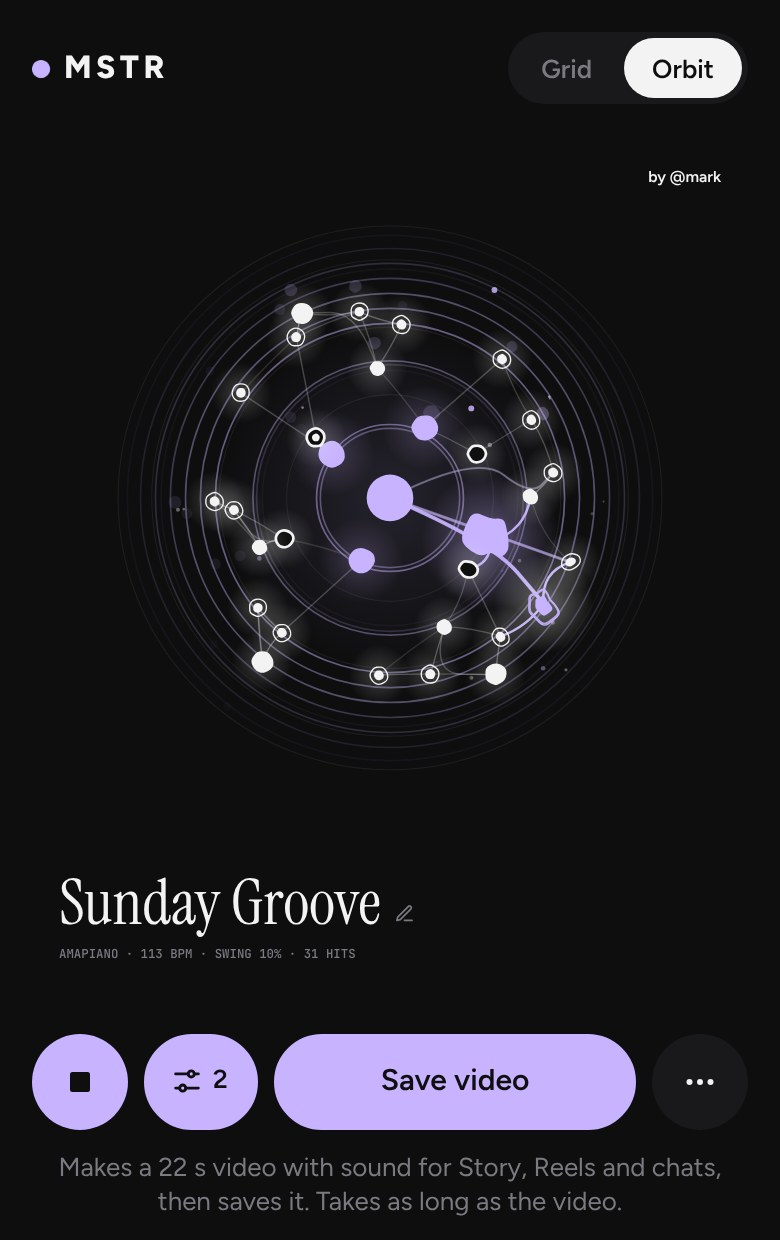
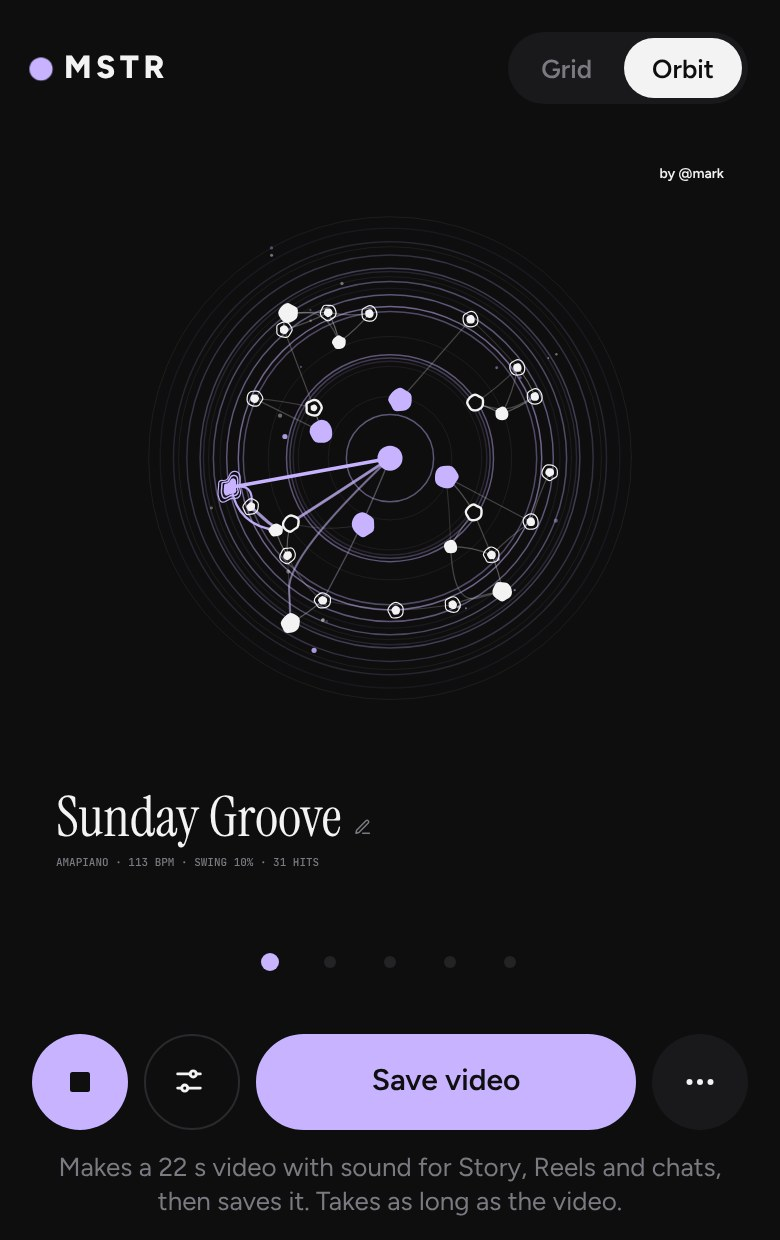
MSTR: sync app with Orbit colours and dark default
App copy from mstr main (five Orbit colours, dark default), new Orbit
preview with the colour dots, step text mentions the colours.

Claude-Session: https://claude.ai/code/session_01WCtGHVGad15G69qQznzFsj

diff --git a/mstr/app/index.html b/mstr/app/index.html
@@ -7,8 +7,6 @@
 <meta name="apple-mobile-web-app-capable" content="yes">
 <meta name="apple-mobile-web-app-title" content="MSTR">
 <title>MSTR</title>
-<link rel="icon" type="image/png" href="/mstr/favicon.png">
-<link rel="apple-touch-icon" href="/mstr/apple-touch-icon.png">
 <link rel="preconnect" href="https://fonts.googleapis.com">
 <link rel="preconnect" href="https://fonts.gstatic.com" crossorigin>
 <link rel="stylesheet" href="https://fonts.googleapis.com/css2?family=Figtree:wght@400;500;600;700;800&family=Instrument+Serif&family=JetBrains+Mono:wght@400;500&display=swap">
@@ -271,6 +269,14 @@ input[type=range]::-moz-range-thumb{width:20px;height:20px;border-radius:50%;bac
 .seg button{height:30px;padding:0 14px;border-radius:999px;border:0;background:none;color:var(--mute);font:600 13px var(--f-ui);cursor:pointer}
 .seg button[aria-pressed="true"]{background:var(--ink);color:var(--bg)}
 .cardfoot{display:flex;gap:8px;align-items:center}
+/* Farbwahl im Orbit: fünf Punkte, der gewählte trägt einen Ring; die Orbit-Farbe färbt dort auch den Video-Knopf */
+/* Zurückhaltend wie die App: kleine graue Punkte, nur der gewählte trägt seine Farbe; die Tipp-Fläche bleibt groß */
+.hue{display:flex;justify-content:center;gap:2px;padding:0 0 6px}
+.hue button{width:28px;height:24px;border:0;padding:0;background:none;cursor:pointer;display:grid;place-items:center}
+.hue button::after{content:"";width:6px;height:6px;border-radius:50%;background:var(--off);transition:transform .15s,background .15s}
+.hue button[aria-checked="true"]::after{background:var(--c);transform:scale(1.5)}
+.hue button:active::after{transform:scale(.8)}
+.app.molecule{--accent:var(--orbit,#C7B3FF)}
 .cardfoot .pill{flex:1;width:auto}
 .cardfoot .ib{width:48px;height:48px}
 .app.molecule .head{display:none}
@@ -305,6 +311,7 @@ input[type=range]::-moz-range-thumb{width:20px;height:20px;border-radius:50%;bac
   </div>
   <main class="tracks" id="tracks" aria-label="Tracks"></main>
   <canvas class="mol" id="mol" hidden aria-label="Your beat as an orbit. Tap the ring to play or stop, tap the title to name it" role="button" tabindex="0"></canvas>
+  <div class="hue" id="hue" hidden role="radiogroup" aria-label="Orbit colour"></div>
   <div class="cardfoot" id="cardfoot" hidden><button type="button" class="pill wide go" id="shCardBtn">Share video</button><button type="button" class="ib" id="more" aria-haspopup="dialog" aria-label="Link and WAV loop" title="Link and WAV loop"><svg viewBox="0 0 24 24" aria-hidden="true"><circle cx="5" cy="12" r="2" fill="currentColor"/><circle cx="12" cy="12" r="2" fill="currentColor"/><circle cx="19" cy="12" r="2" fill="currentColor"/></svg></button></div>
   <p class="shnote" id="shCardT" hidden></p>
   <div class="trk beatrow" aria-hidden="true"><div class="tl"></div><div class="steps"><div class="grp"><span>1</span><span></span><span></span><span></span></div><div class="grp"><span>2</span><span></span><span></span><span></span></div><div class="grp"><span>3</span><span></span><span></span><span></span></div><div class="grp"><span>4</span><span></span><span></span><span></span></div></div></div>
@@ -327,10 +334,10 @@ function save(){try{localStorage.setItem(KEY,JSON.stringify(S));}catch(e){}}
 function lsGet(k){try{return localStorage.getItem(k);}catch(e){return null;}}
 function lsSet(k,v){try{if(v==null)localStorage.removeItem(k);else localStorage.setItem(k,v);}catch(e){}}
 
-/* Farbschema: System, hell oder dunkel */
+/* Farbschema: System, hell oder dunkel. Wer noch nichts gewählt hat, startet dunkel (auch im Grid) */
 var THEMES=['system','light','dark'];
 function applyTheme(){
-  var t=THEMES.indexOf(S.theme)>=0?S.theme:'system',de=document.documentElement;
+  var t=THEMES.indexOf(S.theme)>=0?S.theme:'dark',de=document.documentElement;
   if(t==='system')de.removeAttribute('data-theme');else de.setAttribute('data-theme',t);
   var dark=t==='dark'||(t==='system'&&window.matchMedia&&matchMedia('(prefers-color-scheme: dark)').matches);
   var m=document.querySelector('meta[name="theme-color"]');if(m)m.setAttribute('content',dark?'#0E0E0F':'#FFFFFF');
@@ -646,6 +653,10 @@ function dropRec(id){delete REC[id];lsSet('mstr-rec-'+id,null);}
    Staub: bei manchen Schlägen bleiben kleine Körner zurück, die langsam nach außen und oben in die Atmosphäre gleiten */
 var CARD=(function(){
   var LIL='#C7B3FF',INK='#0F0F10',WHT='#F3F3F4',GRY='#7A7A81',ORDER=[1,2,0,4,5,3,6],NBAR=9,TAIL=2.4;
+  /* Akzentfarbe je Beat (m.col, Hex): fünf Töne auf Schwarz, Flieder ist der Standard. Das Molekül behält seine Form, nur die Farbe wechselt */
+  var HUES={f:'#C7B3FF',m:'#9FE8C8',k:'#FF9A8B',b:'#F5C56B',e:'#9FD3FF'},LILA='rgba(199,179,255,A)',RGB='199,179,255';
+  function accent(c){c=HUES[c]||(/^#[0-9a-f]{6}$/i.test(c||'')?c:HUES.f);if(c===LIL)return;LIL=c;
+    RGB=parseInt(c.slice(1,3),16)+','+parseInt(c.slice(3,5),16)+','+parseInt(c.slice(5,7),16);LILA='rgba('+RGB+',A)';}
   function hash(s){var h=2166136261,i;for(i=0;i<s.length;i++){h^=s.charCodeAt(i);h=Math.imul(h,16777619);}return h>>>0;}
   function rng(a){return function(){a|=0;a=a+0x6D2B79F5|0;var t=Math.imul(a^a>>>15,1|a);t=t+Math.imul(t^t>>>7,61|t)^t;return((t^t>>>14)>>>0)/4294967296;};}
   /* feste Zufallsabweichung je Atom (bricht jede Drehsymmetrie) */
@@ -657,11 +668,11 @@ var CARD=(function(){
   /* Effekte normiert: je id {a: Stärke 0–1, o: Auswahl}; Zahl = nur Stärke */
   function fxNorm(f){var o={},k,D={echo:3,sweep:2,pump:4,stut:2};if(!f)return o;
     for(k in f){var v=f[k];if(!v)continue;var a=typeof v==='number'?v:(v.a==null?.5:v.a);o[k]={a:Math.max(0,Math.min(1,a)),o:(v&&v.o)||D[k]||0};}return o;}
-  function model(rows,bpm,sw,fx){
+  function model(rows,bpm,sw,fx,col){
     var R=rows.slice(0,7).map(function(r){return (r||'').padEnd(16,'0').slice(0,16);}),cnt=[],tot=0,dom=0,i;
     R.forEach(function(r){var n=0;for(i=0;i<16;i++)if(r.charAt(i)!=='0')n++;cnt.push(n);tot+=n;});
     var TYP=[8,4,3,1,6,2,1];for(i=1;i<7;i++)if(cnt[i]/TYP[i]>cnt[dom]/TYP[dom])dom=i;
-    return {R:R,cnt:cnt,tot:tot,bpm:bpm,sw:sw,dom:dom,fx:fxNorm(fx),seed:hash(R.join('')+bpm)};
+    return {R:R,cnt:cnt,tot:tot,bpm:bpm,sw:sw,dom:dom,fx:fxNorm(fx),col:col||'f',seed:hash(R.join('')+bpm)};
   }
   /* Arrangement: welche Spur in welchem Takt klingt (Takt 0 = erster). Takt 8 ist der Schlussschlag */
   function active(tr,bar){if(bar===0)return tr===1||tr===0;if(bar===1)return tr!==3&&tr!==5&&tr!==6;if(bar===6)return tr!==1;if(bar===8)return false;return true;}
@@ -768,7 +779,7 @@ var CARD=(function(){
     x.moveTo((P[N-1][0]+P[0][0])/2,(P[N-1][1]+P[0][1])/2);
     for(k=0;k<N;k++){var q=P[(k+1)%N];x.quadraticCurveTo(P[k][0],P[k][1],(P[k][0]+q[0])/2,(P[k][1]+q[1])/2);}x.closePath();}
   function halo(x,px,py,R,col,al){var g=x.createRadialGradient(px,py,0,px,py,R);g.addColorStop(0,col.replace('A',al.toFixed(3)));g.addColorStop(1,col.replace('A','0'));x.fillStyle=g;x.beginPath();x.arc(px,py,R,0,7);x.fill();}
-  var LILA='rgba(199,179,255,A)',WHTA='rgba(243,243,244,A)';
+  var WHTA='rgba(243,243,244,A)';
   function atom(x,p,sc,fg,bg,kickStroke,glass,room){var tr=p.tr,v=p.v,px=p.x,py=p.y,va=(.3+.7*p.vis)*(1-.5*glass),k=(1+p.hp*.7)*(.35+.65*p.vis)*p.pk;
     /* Glas: nach jeder Füllung ein feiner Rand in derselben Farbe */
     var F=function(){x.fill();if(glass>.6){var a0=x.globalAlpha,s0=x.strokeStyle,w0=x.lineWidth;x.globalAlpha=.9*p.vis;x.strokeStyle=x.fillStyle;x.lineWidth=1.1*sc;x.stroke();x.globalAlpha=a0;x.strokeStyle=s0;x.lineWidth=w0;}};
@@ -794,7 +805,7 @@ var CARD=(function(){
     if(fx.sweep&&live){x.globalAlpha=1;halo(x,cx,cy,(60+S.open*180)*sc,LILA,.04+.07*fx.sweep.a*S.open);}
     x.strokeStyle=fg;x.globalAlpha=.07+(fx.sweep?.08*fx.sweep.a*S.open:0);x.lineWidth=1*sc;for(i=0;i<7;i++){x.beginPath();x.arc(cx,cy,(62+i*30)*sc,0,7);x.stroke();}x.globalAlpha=1;
     bonds(x,S,G,fg,sc,live);chains(x,S,G,fg,sc,live);
-    if(live)S.waves.forEach(function(w){var age=(performance.now()-w.t)/900;if(age>1||age<0)return;x.strokeStyle='rgba(199,179,255,'+(0.5*(1-age))+')';x.lineWidth=1.5*sc;x.beginPath();x.arc(cx,cy,(w.r+age*90)*sc,0,7);x.stroke();});
+    if(live)S.waves.forEach(function(w){var age=(performance.now()-w.t)/900;if(age>1||age<0)return;x.strokeStyle='rgba('+RGB+','+(0.5*(1-age))+')';x.lineWidth=1.5*sc;x.beginPath();x.arc(cx,cy,(w.r+age*90)*sc,0,7);x.stroke();});
     var ne=Math.min(7,2+m.cnt[3]+m.cnt[6]);for(i=0;i<ne;i++){var orb=(70+g()*190)*sc,sp=(0.3+g()*0.6)*(m.bpm/110)*(g()>.5?1:-1),ph=g()*7,ea=ph+(live||!reduce()?T*sp:0);
       x.fillStyle=LIL;x.globalAlpha=.85;x.beginPath();x.arc(cx+Math.cos(ea)*orb,cy+Math.sin(ea)*orb,2.6*sc,0,7);x.fill();x.globalAlpha=1;}
     if(live&&fx.echo)S.ghosts.forEach(function(gh){var age=(now-gh.t)/gh.dt;if(age<0||age>=1)return;var p=G.byId[gh.id];if(!p)return;
@@ -824,7 +835,7 @@ var CARD=(function(){
      alles Wichtige liegt zwischen y = 150 und y = 800 (Instagram: Kopfzeile bis etwa 12 %, Antwortfeld ab etwa 84 %) */
   /* Tiefe: leises Licht um die Mitte und wenige feine Sterne (fest je Beat, keine Bewegung), o.space:false lässt es weg */
   function space(x,W,H,S,cx,cy,sc){
-    var g=x.createRadialGradient(cx,cy,0,cx,cy,W*.95);g.addColorStop(0,'rgba(199,179,255,.09)');g.addColorStop(.45,'rgba(199,179,255,.025)');g.addColorStop(1,'rgba(0,0,0,0)');
+    var g=x.createRadialGradient(cx,cy,0,cx,cy,W*.95);g.addColorStop(0,'rgba('+RGB+',.09)');g.addColorStop(.45,'rgba('+RGB+',.025)');g.addColorStop(1,'rgba(0,0,0,0)');
     x.fillStyle=g;x.fillRect(0,0,W,H);
     var h=hash(S.m.bpm+':'+S.m.tot+':'+S.m.sw),i,r,n=110;
     for(i=0;i<n;i++){h=(Math.imul(h,1664525)+1013904223)>>>0;var px=(h%10000)/10000*W;h=(Math.imul(h,1664525)+1013904223)>>>0;var py=(h%10000)/10000*H;h=(Math.imul(h,1664525)+1013904223)>>>0;var q=(h%1000)/1000;
@@ -832,7 +843,7 @@ var CARD=(function(){
       r=(q<.85?.5+q*.7:1.1+q)*sc;x.fillStyle=(i%9===0?LILA:WHTA).replace('A',(.12+q*.35).toFixed(3));x.beginPath();x.arc(px,py,r,0,7);x.fill();}
   }
   function story(x,W,H,S,o){
-    var sc=W/540,fg=WHT,bg=INK,live=!!o.live&&S.live();x.setTransform(1,0,0,1,0,0);
+    var sc=W/540,fg=WHT,bg=INK,live=!!o.live&&S.live();accent(S.m.col);x.setTransform(1,0,0,1,0,0);
     x.fillStyle=bg;x.fillRect(0,0,W,H);if(o.space!==false)space(x,W,H,S,W/2,408*sc,sc);
     x.fillStyle=LIL;x.beginPath();x.arc(38*sc,164*sc,6*sc,0,7);x.fill();x.fillStyle=fg;x.font='700 '+(20*sc)+'px Figtree,sans-serif';x.textAlign='left';x.fillText('M S T R',52*sc,171*sc);
     if(o.by){x.font='600 '+(19*sc)+'px Figtree,sans-serif';x.textAlign='right';x.fillText('by '+(o.by.charAt(0)==='@'?o.by:'@'+o.by),W-32*sc,172*sc);x.textAlign='left';}
@@ -847,7 +858,7 @@ var CARD=(function(){
 
   /* Karte im Sequencer: füllt eine Fläche W×H in den Farben der App; o = {fg, bg, dark, title, by, preset}.
      Unten stehen Titel und Zeile wie auf der fertigen Karte, oben rechts „by @name“, oben links o.hint (etwa TAP TO PLAY), o.edit zeichnet einen kleinen Stift hinter den Titel. Läuft der Beat nicht, steht das Bild */
-  function view(x,W,H,S,o){var sc=Math.min(W/540,H/760),live=S.live(),txt=o.title?130*sc:0;x.setTransform(1,0,0,1,0,0);x.fillStyle=o.bg;x.fillRect(0,0,W,H);
+  function view(x,W,H,S,o){var sc=Math.min(W/540,H/760),live=S.live(),txt=o.title?130*sc:0;accent(S.m.col);x.setTransform(1,0,0,1,0,0);x.fillStyle=o.bg;x.fillRect(0,0,W,H);
     var rs=Math.min(sc,(H-txt-40*sc)/560);ring(x,S,W/2,(H-txt)/2,rs,o.fg,o.dark?INK:o.bg,live,0);if(S.m.fx.lofi&&o.dark)vinyl(x,W,H,S,S.m.fx.lofi.a,live,sc);
     if(o.hint)mono(x,o.hint,24*sc,34*sc,GRY,'left',sc);
     if(o.by){x.fillStyle=o.fg;x.font='600 '+(14*sc)+'px Figtree,sans-serif';x.textAlign='right';x.fillText('by '+(o.by.charAt(0)==='@'?o.by:'@'+o.by),W-24*sc,34*sc);x.textAlign='left';}
@@ -880,7 +891,7 @@ var CARD=(function(){
   /* Standbild als PNG */
   function image(S,o,done){var cv=document.createElement('canvas');cv.width=1080;cv.height=1920;S.reset();story(cv.getContext('2d'),1080,1920,S,o);
     cv.toBlob(function(b){done(b?new File([b],o.file+'.png',{type:'image/png'}):null);},'image/png');}
-  return {model:model,title:title,Scene:Scene,story:story,view:view,record:record,image:image,canVideo:canVideo,clipLen:clipLen,active:active,NBAR:NBAR,TAIL:TAIL};
+  return {model:model,title:title,Scene:Scene,story:story,view:view,HUES:HUES,record:record,image:image,canVideo:canVideo,clipLen:clipLen,active:active,NBAR:NBAR,TAIL:TAIL};
 })();
 
 /* ===== MSTR: Raster, Transport, Vorlagen, Spur-Einstellungen ===== */
@@ -950,7 +961,7 @@ var CARD=(function(){
   function num(x,lo,hi,d){x=+x;return isFinite(x)?Math.max(lo,Math.min(hi,x)):d;}
   function arr(a,f,d){var o=[],r;for(r=0;r<R;r++)o.push(Array.isArray(a)&&a.length===R?f(a[r]):d);return o;}
 
-  var P=S.pat;
+  var P=S.pat,col='f'; /* Farbe des Orbits je Beat: Schlüssel aus CARD.HUES (f Flieder, m Mint, k Koralle, b Bernstein, e Eisblau) */
   /* Alter Stand (vor v2): Spuren hats, beat, clap, snare, click, toms, fx. Die Clap wandert in die Snare,
      die Becken aus der Toms-Spur in die neue Becken-Spur an Stelle 3 */
   if(P&&!P.v&&Array.isArray(P.g)&&P.g.length===7){
@@ -969,13 +980,13 @@ var CARD=(function(){
   if(P&&P.v===3){if([0,6,10,12].indexOf(P.pre)>=0)P.pre=-1;P.v=4;}
   /* Stand v4: Bossa ist durch Beat It ersetzt, Shuffle durch Afrobeats */
   if(P&&P.v===4){if(P.pre===7||P.pre===9)P.pre=-1;P.v=5;}
-  if(P&&clean(P.g)){pat=clean(P.g);bpm=Math.round(num(P.bpm,60,180,100));sw=num(P.sw,0,.6,0);pre=P.pre|0;if(pre<-1||pre>=BEATS.length)pre=-1;edited=!!P.ed;title=typeof P.nm==='string'?P.nm.slice(0,40):'';}
+  if(P&&clean(P.g)){pat=clean(P.g);bpm=Math.round(num(P.bpm,60,180,100));sw=num(P.sw,0,.6,0);pre=P.pre|0;if(pre<-1||pre>=BEATS.length)pre=-1;edited=!!P.ed;title=typeof P.nm==='string'?P.nm.slice(0,40):'';if(P.col&&CARD.HUES[P.col])col=P.col;}
   else{pat=empty();fromBeat(START);}
   vol=arr(P&&P.vol,function(x){return num(x,0,1,.8);},.8);
   mute=arr(P&&P.mute,function(x){return !!x;},false);
   solo=arr(P&&P.solo,function(x){return !!x;},false);
   if(P&&Array.isArray(P.br)&&P.br.length===R)brush=brush.map(function(d,r){return sndIx(r,P.br[r])>=0?P.br[r]:d;});
-  function persist(){S.pat={v:5,g:pat,bpm:bpm,sw:sw,vol:vol,mute:mute,solo:solo,pre:pre,ed:edited,br:brush,nm:title};save();}
+  function persist(){S.pat={v:5,g:pat,bpm:bpm,sw:sw,vol:vol,mute:mute,solo:solo,pre:pre,ed:edited,br:brush,nm:title,col:col};save();}
   function anySolo(){return solo.some(Boolean);}
   /* ARR: beim Rechnen der Karte entscheidet das Arrangement je Takt mit, welche Spur klingt */
   var ARR=null,playT0=0;
@@ -1322,6 +1333,7 @@ var CARD=(function(){
      Läufe von Nullen als Großbuchstaben (A = 1 … P = 16). lautstärke: je Spur zwei Zeichen Base36 (leer, wenn alle 80 %).
      mute/solo: Bitmasken Base36. effekte: je eingeschaltetem Effekt Nummer, Stärke (2 Zeichen Base36) und Auswahl.
      Danach optional .<name>: der eigene Name, URL-kodiert (Punkte als %2E), höchstens 40 Zeichen.
+     Danach optional .<farbe>: ein Buchstabe für die Orbit-Farbe (f m k b e), fehlt er, ist es Flieder; dann steht der Name davor, notfalls leer.
      Die Spur Aufnahme fehlt absichtlich: die Aufnahme liegt nur auf dem eigenen Gerät, beim Empfänger bleibt seine Spur, wie sie ist ---------- */
   var SR=MIC<0?R:MIC; /* geteilt werden die Spuren vor der Aufnahme */
   function b36(v){return (v<36?'0':'')+v.toString(36);}
@@ -1334,16 +1346,16 @@ var CARD=(function(){
     for(r=0;r<SR;r++){if(mute[r])m|=1<<r;if(solo[r])so|=1<<r;}
     if(vol.slice(0,SR).some(function(x){return Math.round(x*100)!==80;}))for(r=0;r<SR;r++)v+=b36(Math.round(vol[r]*100));
     FXS.forEach(function(x,i){var id=x[0];if(FX[id])f+=i+b36(FXA[id])+(x[4]?FXO[id]:0);});
-    return ['1',bpm,Math.round(sw*100),pre>=0?BEATS[pre].n+(edited?'*':''):'',g,v,m||so?m.toString(36)+'_'+so.toString(36):'',f].concat(title?[encodeURIComponent(title).replace(/\./g,'%2E')]:[]).join('.');
+    return ['1',bpm,Math.round(sw*100),pre>=0?BEATS[pre].n+(edited?'*':''):'',g,v,m||so?m.toString(36)+'_'+so.toString(36):'',f].concat(title||col!=='f'?[encodeURIComponent(title).replace(/\./g,'%2E')]:[],col!=='f'?[col]:[]).join('.');
   }
   /* Liest einen Link-Code. Ungültig: null, dann bleibt alles, wie es ist */
   function readCode(s){
     var p=String(s||'').split('.').map(function(x){try{return decodeURIComponent(x);}catch(e){return '';}}),g='',k,c,r;
-    if((p.length!==8&&p.length!==9)||p[0]!=='1')return null;
+    if(p.length<8||p.length>10||p[0]!=='1')return null;
     for(k=0;k<p[4].length;k++){c=p[4].charAt(k);if(c>='A'&&c<='P')g+=new Array(c.charCodeAt(0)-63).join('0');else g+=c;}
     if(g.length!==SR*N)return null;
     var rows=[];for(r=0;r<SR;r++){var row=g.substr(r*N,N);for(k=0;k<N;k++)if(row.charAt(k)!=='0'&&sndIx(r,row.charAt(k))<0)return null;rows.push(row);}
-    var o={g:rows,bpm:Math.round(num(p[1],60,180,100)),sw:num(p[2],0,60,0)/100,pre:-1,ed:false,vol:null,mute:0,solo:0,fx:[],nm:(p[8]||'').replace(/[\u0000-\u001f]/g,'').trim().slice(0,40)};
+    var o={g:rows,bpm:Math.round(num(p[1],60,180,100)),sw:num(p[2],0,60,0)/100,pre:-1,ed:false,vol:null,mute:0,solo:0,fx:[],nm:(p[8]||'').replace(/[\u0000-\u001f]/g,'').trim().slice(0,40),col:CARD.HUES[p[9]]?p[9]:'f'};
     var nm=p[3].replace(/\*$/,''),ix=BEATS.map(function(b){return b.n;}).indexOf(nm);if(nm&&ix>=0){o.pre=ix;o.ed=/\*$/.test(p[3]);}
     if(p[5].length===SR*2){o.vol=[];for(r=0;r<SR;r++)o.vol.push(num(parseInt(p[5].substr(r*2,2),36),0,100,80)/100);}
     var ms=p[6].split('_');if(ms.length===2){o.mute=parseInt(ms[0],36)||0;o.solo=parseInt(ms[1],36)||0;}
@@ -1351,13 +1363,13 @@ var CARD=(function(){
       o.fx.push([F[0],num(parseInt(p[7].substr(k+1,2),36),0,100,50),+p[7].charAt(k+3)]);}
     return o;
   }
-  function snap(){return {pat:pat.slice(),bpm:bpm,sw:sw,pre:pre,ed:edited,nm:title,vol:vol.slice(),mute:mute.slice(),solo:solo.slice(),
+  function snap(){return {pat:pat.slice(),bpm:bpm,sw:sw,pre:pre,ed:edited,nm:title,col:col,vol:vol.slice(),mute:mute.slice(),solo:solo.slice(),
     fx:JSON.parse(JSON.stringify(FX)),fxa:JSON.parse(JSON.stringify(FXA)),fxo:JSON.parse(JSON.stringify(FXO))};}
-  function restore(z){pat=z.pat;bpm=z.bpm;sw=z.sw;pre=z.pre;edited=z.ed;title=z.nm;vol=z.vol;mute=z.mute;solo=z.solo;
+  function restore(z){pat=z.pat;bpm=z.bpm;sw=z.sw;pre=z.pre;edited=z.ed;title=z.nm;col=z.col||'f';hueUI();vol=z.vol;mute=z.mute;solo=z.solo;
     FXS.forEach(function(f){var id=f[0];FX[id]=z.fx[id];FXA[id]=z.fxa[id];FXO[id]=z.fxo[id];});fxSave();fxApply(false);fxUI();paint();persist();}
   function useCode(o){
     var r;for(r=0;r<SR;r++){pat[r]=o.g[r];mute[r]=!!(o.mute&1<<r);solo[r]=!!(o.solo&1<<r);if(o.vol)vol[r]=o.vol[r];}
-    bpm=o.bpm;sw=o.sw;pre=o.pre;edited=o.ed;title=o.nm;
+    bpm=o.bpm;sw=o.sw;pre=o.pre;edited=o.ed;title=o.nm;col=o.col||'f';hueUI();
     FXS.forEach(function(f){FX[f[0]]=false;});
     o.fx.forEach(function(x){var F=FXS.filter(function(f){return f[0]===x[0];})[0];FX[x[0]]=true;FXA[x[0]]=x[1];if(F[4]&&F[4].some(function(q){return q[0]===x[2];}))FXO[x[0]]=x[2];});
     fxSave();fxApply(false);persist();
@@ -1434,7 +1446,15 @@ var CARD=(function(){
   /* Karte: die eingeschalteten Effekte wandern mit ins Bild (Stärke 0–1 und Auswahl), GLASS ist die Durchsichtigkeit der Atome */
   var GLASS=0;
   function cardFx(){var o={};FXS.forEach(function(f){var id=f[0];if(FX[id])o[id]={a:FXA[id]/100,o:FXO[id]};});return o;}
-  function cardModel(){return CARD.model(pat.slice(0,7),bpm,sw,cardFx());}
+  function cardModel(){return CARD.model(pat.slice(0,7),bpm,sw,cardFx(),col);}
+  /* Farbwahl im Orbit: fünf Punkte, die Farbe gehört zum Beat, reist im Link mit und gilt für Orbit und Video (die App bleibt Flieder) */
+  var hueRow=$('hue');
+  function hueUI(){var on=hueRow.querySelector('[aria-checked="true"]');if(on&&on.dataset.hue===col)return;
+    hueRow.querySelectorAll('button').forEach(function(b){b.setAttribute('aria-checked',b.dataset.hue===col?'true':'false');});app.style.setProperty('--orbit',CARD.HUES[col]);}
+  function setHue(k){if(!CARD.HUES[k]||k===col)return;col=k;hueUI();persist();if(typeof cardLabel==='function')cardLabel();}
+  Object.keys(CARD.HUES).forEach(function(k){var b=document.createElement('button');b.type='button';b.setAttribute('role','radio');b.dataset.hue=k;b.style.setProperty('--c',CARD.HUES[k]);
+    b.setAttribute('aria-label',{f:'Lilac',m:'Mint',k:'Coral',b:'Amber',e:'Ice blue'}[k]);b.title=b.getAttribute('aria-label');b.addEventListener('click',function(){setHue(k);});hueRow.appendChild(b);});
+  hueUI();
   function setTitle(v){v=v.replace(/[\u0000-\u001f]/g,'').trim().slice(0,40);if(v!==title){title=v;paint();persist();}}
   function nameSheet(){
     openSheet('<div class="sh-top"><span class="eyebrow" id="sheetT">Name your beat</span>'+XB+'</div>'+
@@ -1565,7 +1585,7 @@ var CARD=(function(){
     molS.fire({s:q,b:b,h:h,st:stu?1:0},performance.now());
     if(stu)setTimeout(function(){if(molOn&&playing)molS.fire({s:q,b:b,h:h,st:1},performance.now());},st()*500);}
   var transport=document.querySelector('.transport');
-  function molSet(on){molOn=!!on;if(!molOn)cardStop();app.classList.toggle('molecule',molOn);molC.hidden=!molOn;foot.hidden=!molOn;
+  function molSet(on){molOn=!!on;if(!molOn)cardStop();app.classList.toggle('molecule',molOn);molC.hidden=!molOn;foot.hidden=!molOn;hueRow.hidden=!molOn;
     if(molOn){foot.insertBefore(playB,cb);foot.insertBefore(fxB,cb);cardLabel();forceDark();}else{transport.insertBefore(playB,transport.firstChild);transport.insertBefore(fxB,dropB);ct.hidden=true;themeUI();}
     vGrid.setAttribute('aria-pressed',molOn?'false':'true');vCard.setAttribute('aria-pressed',molOn?'true':'false');
     S.view=molOn?'mol':'';save();if(molOn){molModel();molSize();molGo();}}
@@ -1577,7 +1597,7 @@ var CARD=(function(){
   document.addEventListener('visibilitychange',function(){if(!document.hidden)molGo();});window.addEventListener('pageshow',molGo);
   if(S.view==='mol')molSet(true);
 
-  window.MSTR={view:molSet,setPlay:setPlay,renderLoop:renderLoop,renderClip:renderClip,card:CARD,code:shareCode,url:shareUrl,state:function(){return {pat:pat.slice(),bpm:bpm,sw:sw,pre:pre,playing:playing,fx:JSON.parse(JSON.stringify(FX)),fxa:JSON.parse(JSON.stringify(FXA)),fxo:JSON.parse(JSON.stringify(FXO))};}};
+  window.MSTR={view:molSet,setPlay:setPlay,renderLoop:renderLoop,renderClip:renderClip,card:CARD,code:shareCode,url:shareUrl,hue:setHue,state:function(){return {pat:pat.slice(),bpm:bpm,sw:sw,pre:pre,playing:playing,col:col,fx:JSON.parse(JSON.stringify(FX)),fxa:JSON.parse(JSON.stringify(FXA)),fxo:JSON.parse(JSON.stringify(FXO))};}};
 })();
 
 })();

diff --git a/mstr/index.html b/mstr/index.html
@@ -111,7 +111,7 @@ details a,.ask a{color:var(--accent-text);font-weight:700}
     <li><button type="button" role="tab" aria-selected="false" data-img="vorschau-1.jpg" data-alt="The grid playing the Amapiano template, Grid | Orbit switch at the top, Play, Effects, Drop and Tempo at the bottom"><b>2</b><strong>Build</strong><span>Tap steps, long-press for a different sound, set tempo and swing.</span></button></li>
     <li><button type="button" role="tab" aria-selected="false" data-img="vorschau-4.jpg" data-alt="The Room and Echo effects switched on, with sliders"><b>3</b><strong>Effects</strong><span>Switch on six effects and hit the drop.</span></button></li>
     <li><button type="button" role="tab" aria-selected="false" data-img="vorschau-3.jpg" data-alt="The Mic track with the record button"><b>4</b><strong>Mic</strong><span>Record your own sound on the Mic track.</span></button></li>
-    <li><button type="button" role="tab" aria-selected="false" data-img="vorschau-5.jpg" data-alt="The Orbit view: the molecule spins to the beat Sunday Groove by @mark, with Play, Effects, Share video and the menu for link and WAV below"><b>5</b><strong>Share</strong><span>In Orbit your beat spins as a molecule. Share it as a video with the link to your beat, or send a WAV loop.</span></button></li>
+    <li><button type="button" role="tab" aria-selected="false" data-img="vorschau-5.jpg" data-alt="The Orbit view: the molecule spins to the beat Sunday Groove by @mark, with five colour dots, Play, Effects, Share video and the menu for link and WAV below"><b>5</b><strong>Share</strong><span>In Orbit your beat spins as a molecule in one of five colours. Share it as a video with the link to your beat, or send a WAV loop.</span></button></li>
    </ol>
    <p class="cap" id="cap">16 templates to start from, or begin with an empty grid.</p>
   </div>
